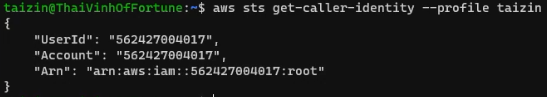
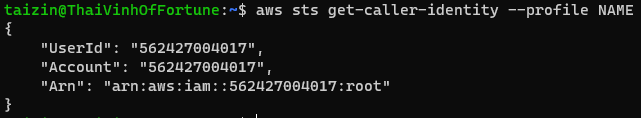
UPDATE LAP0

diff --git a/LAP0/README.MD b/LAP0/README.MD
@@ -3,8 +3,12 @@
 ## Cài đặt aws cli (linux)
   ![Cai dat AWS-CLI](https://github.com/thaivinh99/AWS-Vinh-Feb-13th/blob/main/LAP0/AWS-CLI.bmp)
 
-## Khai báo profile [taizin]
-  ![Khai bao profile](https://github.com/thaivinh99/AWS-Vinh-Feb-13th/blob/main/LAP0/Profile.png)
+## Khai báo profile [NAME]
+  ![Khai bao configure va profile produser](https://github.com/thaivinh99/AWS-Vinh-Feb-13th/blob/main/LAP0/Profile-1.png)
+  ![Khai bao profile produser thanh cong](https://github.com/thaivinh99/AWS-Vinh-Feb-13th/blob/main/LAP0/Profile-2.png)
+  ![Khai bao profile NAME thanh cong](https://github.com/thaivinh99/AWS-Vinh-Feb-13th/blob/main/LAP0/Profile-3.png)
 
-## Chạy get-call-identity bằng profile [taizin]
-  ![Chay get-call-identity bang profile](https://github.com/thaivinh99/AWS-Vinh-Feb-13th/blob/main/LAP0/get-call-identity.png)
+
+
+## Chạy get-call-identity bằng profile [NAME]
+  ![Chay get-call-identity bang profile NAME](https://github.com/thaivinh99/AWS-Vinh-Feb-13th/blob/main/LAP0/get-call-identity.png)
